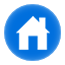
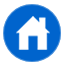
123

Changed region(s): [[0.0308, 0.0615, 0.9538, 0.9538]]

diff --git a/BusBar-Qt/mainwindow.cpp b/BusBar-Qt/mainwindow.cpp
@@ -12,7 +12,7 @@ MainWindow::MainWindow(QWidget *parent) :
     mInitShm = new InitShm(this);
     mInitShm->start();
 
-//  initSerial();
+    //  initSerial();
 
     mIndex = 0;
     initWidget();
@@ -35,19 +35,19 @@ MainWindow::~MainWindow()
 void MainWindow::initSerial()
 {
     RtuThread *rtu = new RtuThread(this);
-//    rtu->init("ttyS2", 1);
+    //    rtu->init("ttyS2", 1);
     rtu->init(SERIAL_COM1, 1);
 
 
 
-//    rtu = new RtuThread(this);
-//    rtu->init(SERIAL_COM2, 2);
+    //    rtu = new RtuThread(this);
+    //    rtu->init(SERIAL_COM2, 2);
 
-//    rtu = new RtuThread(this);
-//    rtu->init(SERIAL_COM3, 3);
+    //    rtu = new RtuThread(this);
+    //    rtu->init(SERIAL_COM3, 3);
 
-//    rtu = new RtuThread(this);
-//    rtu->init(SERIAL_COM4, 4);
+    //    rtu = new RtuThread(this);
+    //    rtu->init(SERIAL_COM4, 4);
 }
 
 void MainWindow::timeoutDone()
@@ -97,6 +97,7 @@ void MainWindow::initFunSLot()
 void MainWindow::initWidget()
 {
     //    set_background_color(ui->stackedWid,QColor("0,0,0"));
+    initBackground();
 
     mHomeWid = new HomeWid(ui->stackedWid);
     ui->stackedWid->addWidget(mHomeWid);
@@ -153,4 +154,20 @@ void MainWindow::on_alarmBtn_clicked()
 void MainWindow::on_comboBox_currentIndexChanged(int index)
 {
     setBusName(index);
+}
+
+void MainWindow::setButtonImage(QToolButton *button, QString name)
+{
+    QString strNormal = tr("QToolButton{border-image: url(:/new/prefix1/image/%1.png);}").arg(name);
+    QString strSelect = tr("QToolButton:pressed{border-image: url(:/new/prefix1/image/%1_select.png);}").arg(name);
+    button->setStyleSheet(strNormal+strSelect);
+}
+
+void MainWindow::initBackground()
+{
+    setButtonImage(ui->homeBtn,"home");
+    setButtonImage(ui->lineBtn,"main");
+    setButtonImage(ui->branchBtn,"branch");
+    setButtonImage(ui->logBtn,"data");
+    setButtonImage(ui->setBtn,"setting");
 }

diff --git a/BusBar-Qt/mainwindow.h b/BusBar-Qt/mainwindow.h
@@ -25,8 +25,10 @@ public:
 protected:
     void initSerial();
     void initWidget();
+    void initBackground();
     void checkAlarm();
     void setBusName(int index);
+    void setButtonImage(QToolButton *button, QString name);
 
 protected slots:
     void initFunSLot();
